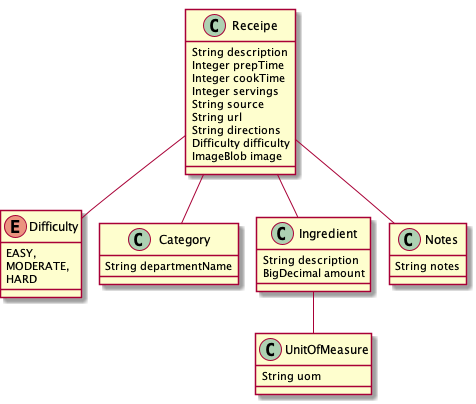
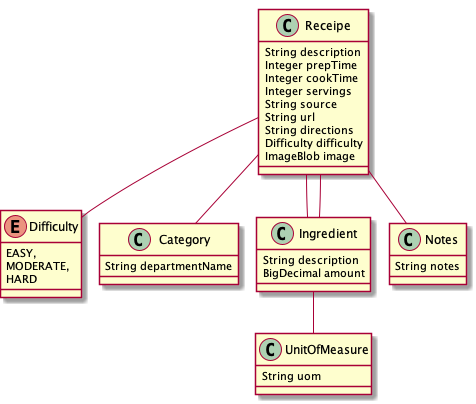
Added One to Many Relationship among Recipe and Ingredient

diff --git a/src/main/java/com/niveksys/recipeapp/model/Ingredient.java b/src/main/java/com/niveksys/recipeapp/model/Ingredient.java
@@ -1,0 +1,55 @@
+package com.niveksys.recipeapp.model;
+
+import java.math.BigDecimal;
+
+import javax.persistence.Entity;
+import javax.persistence.GeneratedValue;
+import javax.persistence.GenerationType;
+import javax.persistence.Id;
+import javax.persistence.ManyToOne;
+
+@Entity
+public class Ingredient {
+    @Id
+    @GeneratedValue(strategy = GenerationType.IDENTITY)
+    private Long id;
+    private String description;
+    private BigDecimal amount;
+    // private UnitOfMeasure uom;
+
+    @ManyToOne
+    private Recipe recipe;
+
+    public Long getId() {
+        return id;
+    }
+
+    public void setId(Long id) {
+        this.id = id;
+    }
+
+    public String getDescription() {
+        return description;
+    }
+
+    public void setDescription(String description) {
+        this.description = description;
+    }
+
+    public BigDecimal getAmount() {
+        return amount;
+    }
+
+    public void setAmount(BigDecimal amount) {
+        this.amount = amount;
+    }
+
+    public Recipe getRecipe() {
+        return recipe;
+    }
+
+    public void setRecipe(Recipe recipe) {
+        this.recipe = recipe;
+    }
+
+}

diff --git a/src/main/java/com/niveksys/recipeapp/model/Recipe.java b/src/main/java/com/niveksys/recipeapp/model/Recipe.java
@@ -1,11 +1,14 @@
 package com.niveksys.recipeapp.model;
 
+import java.util.Set;
+
 import javax.persistence.CascadeType;
 import javax.persistence.Entity;
 import javax.persistence.GeneratedValue;
 import javax.persistence.GenerationType;
 import javax.persistence.Id;
 import javax.persistence.Lob;
+import javax.persistence.OneToMany;
 import javax.persistence.OneToOne;
 
 @Entity
@@ -23,6 +26,9 @@ public class Recipe {
     private String url;
     private String direction;
     // private Difficulty difficulty;
+
+    @OneToMany(cascade = CascadeType.ALL, mappedBy = "recipe")
+    private Set<Ingredient> ingredients;
 
     @Lob
     private Byte[] image;
@@ -108,6 +114,14 @@ public class Recipe {
 
     public void setNotes(Notes notes) {
         this.notes = notes;
+    }
+
+    public Set<Ingredient> getIngredients() {
+        return ingredients;
+    }
+
+    public void setIngredients(Set<Ingredient> ingredients) {
+        this.ingredients = ingredients;
     }
 
 }
